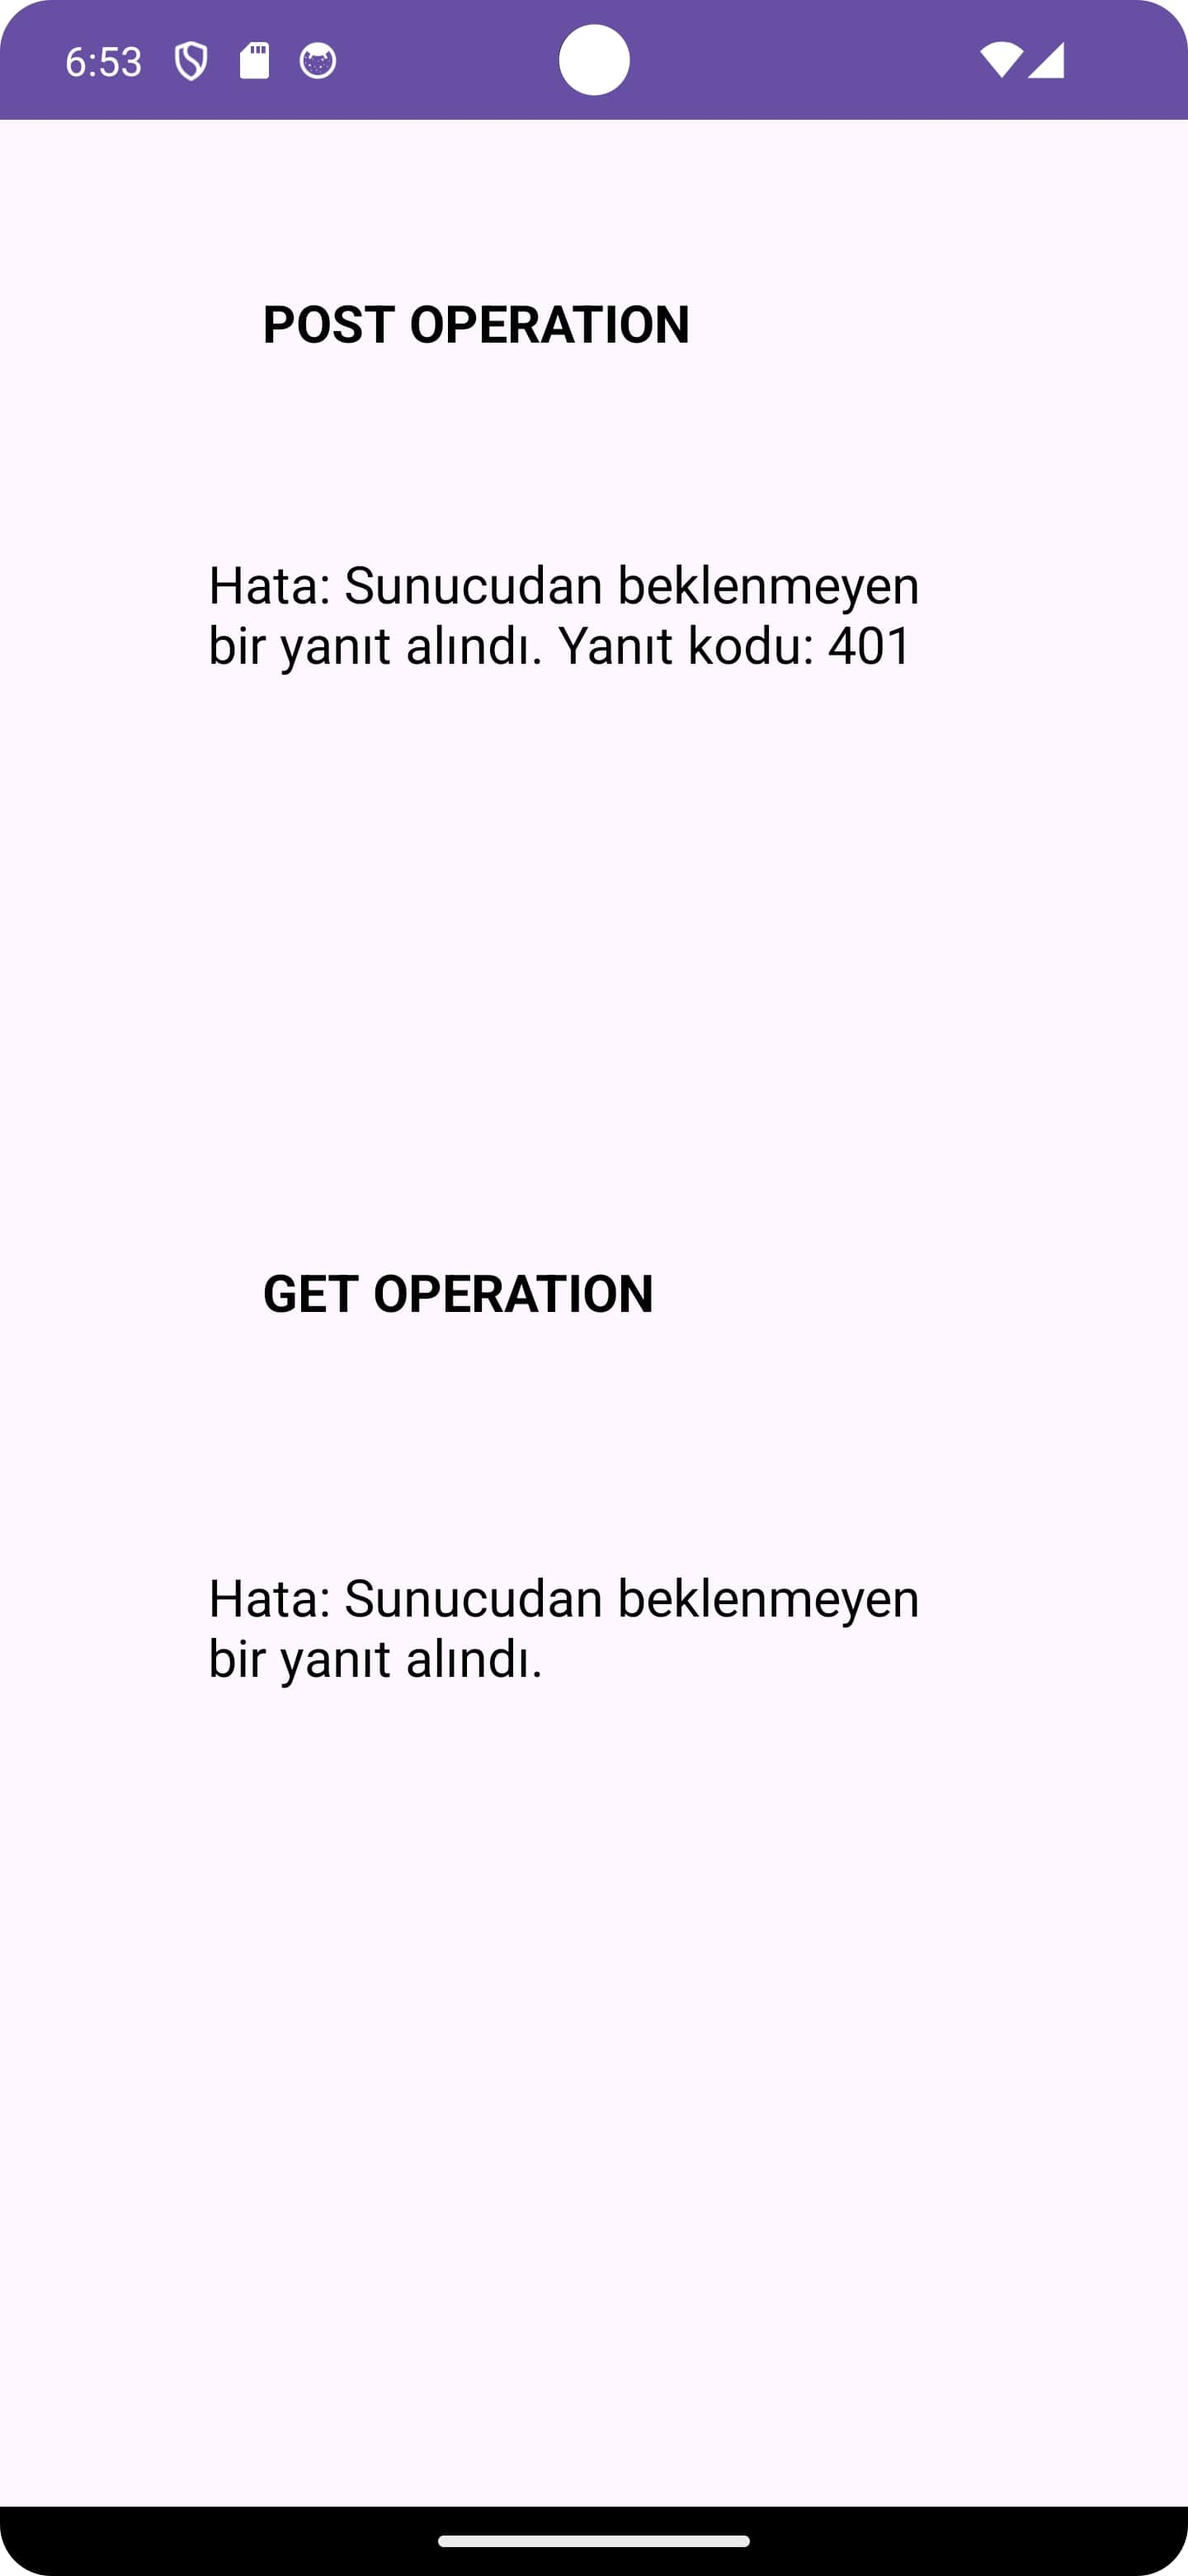
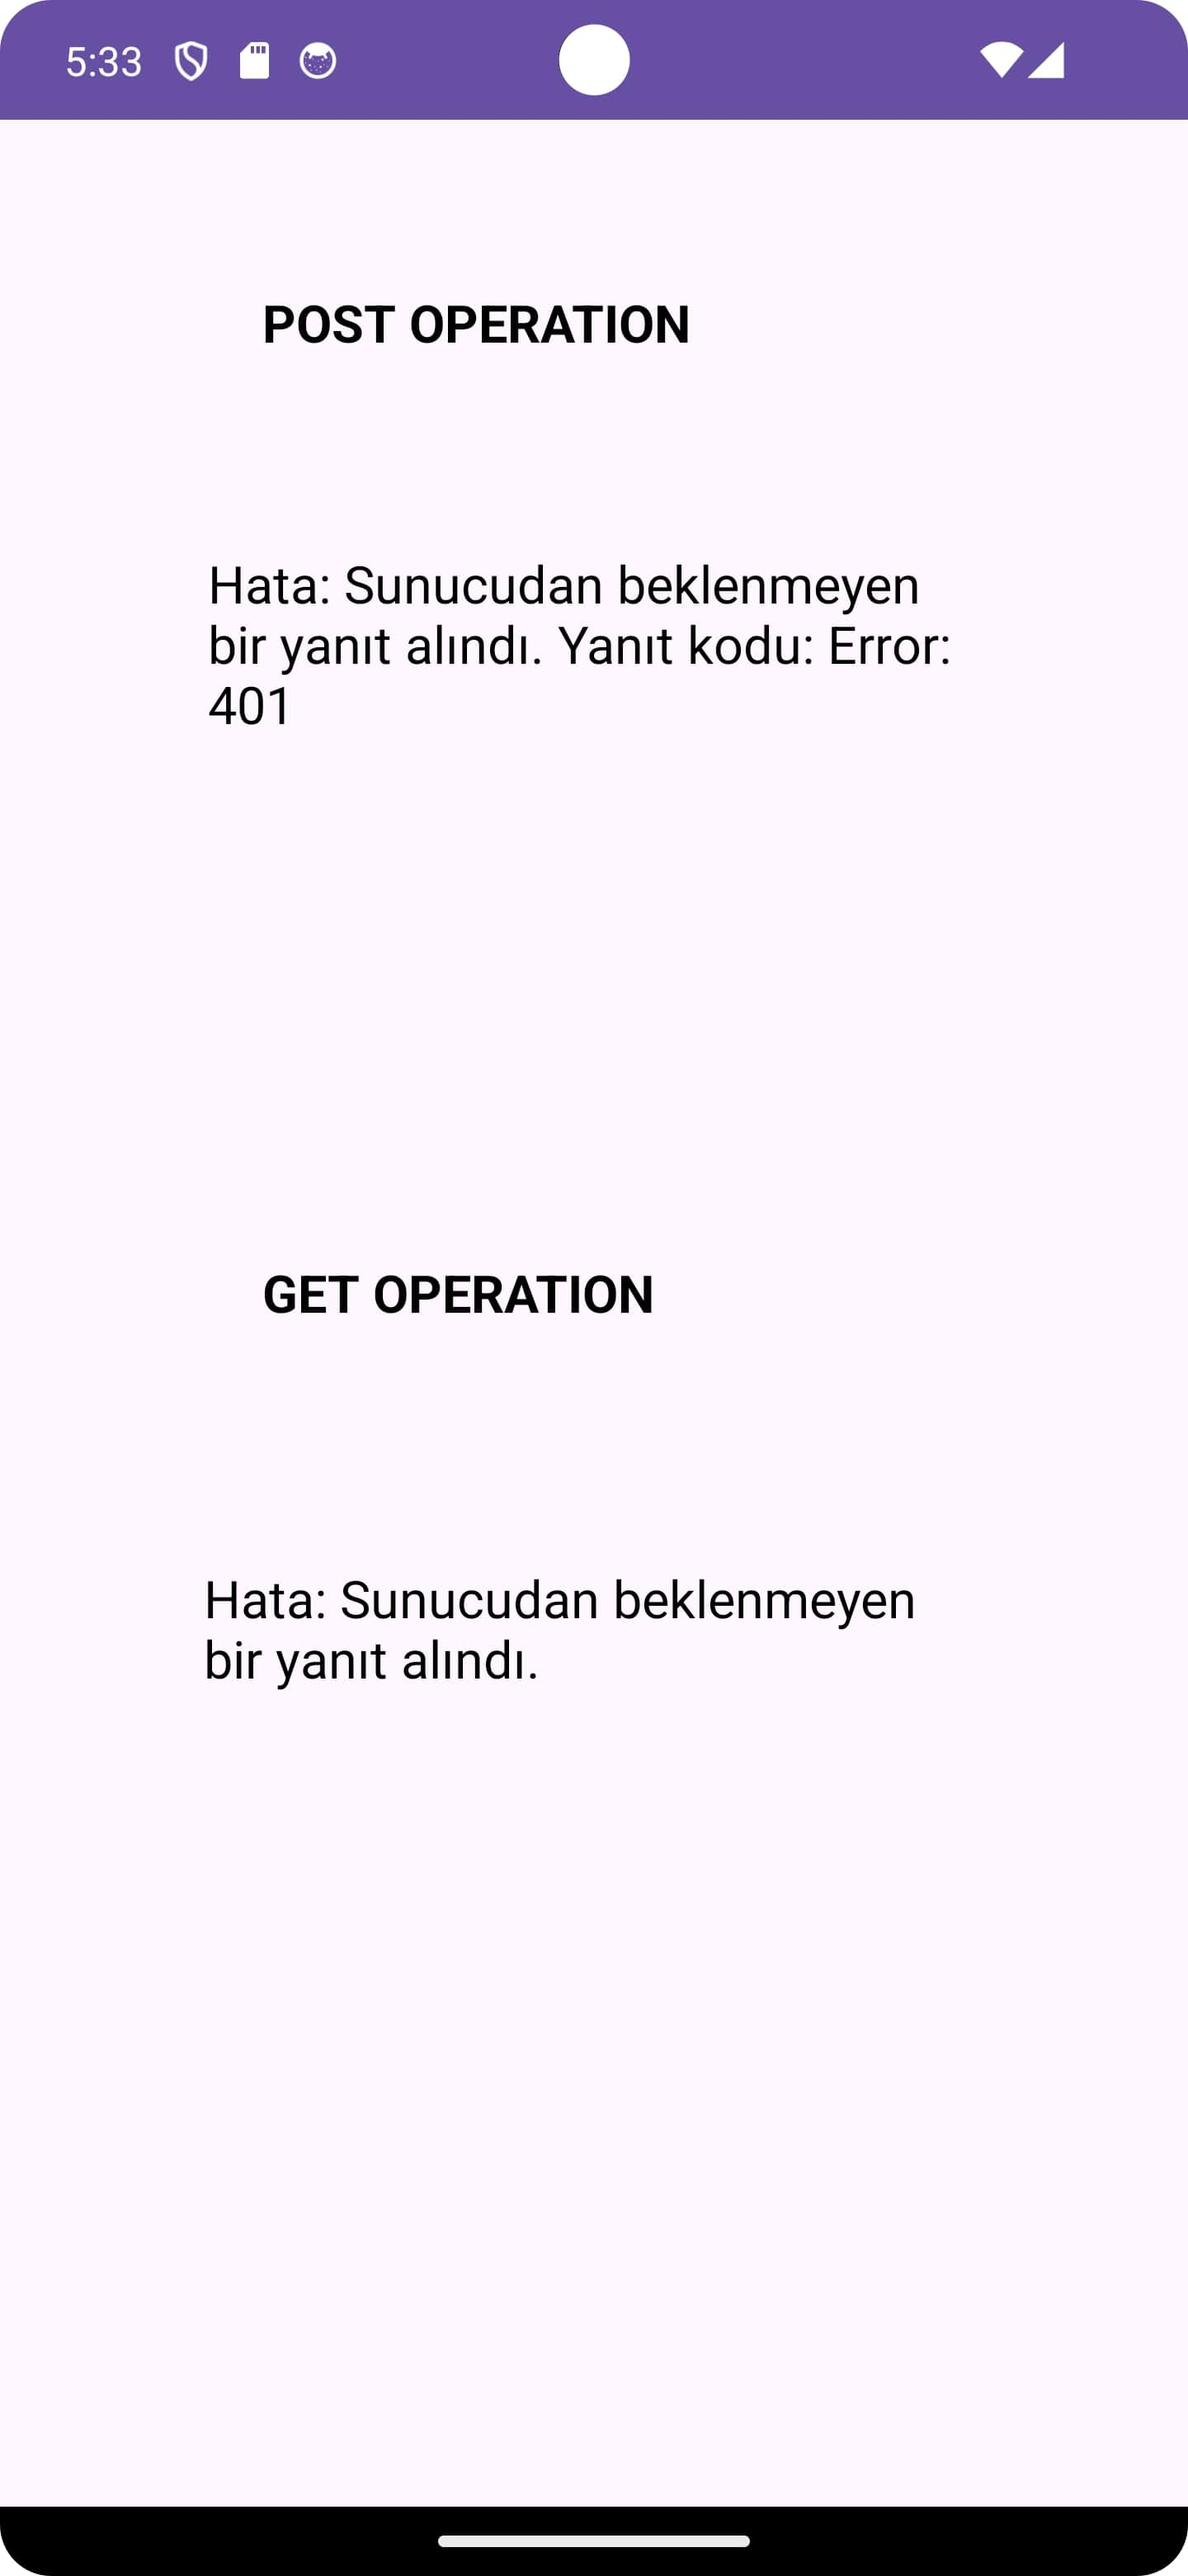
Implemented separation of concerns to apply clean code Converted json format to data class Screenshots has changed

diff --git a/app/src/main/java/com/example/patikagetirbootcampw4/presentation/MainActivity.kt b/app/src/main/java/com/example/patikagetirbootcampw4/presentation/MainActivity.kt
@@ -1,0 +1,67 @@
+package com.example.patikagetirbootcampw4.presentation
+
+import android.annotation.SuppressLint
+import android.os.Bundle
+import androidx.appcompat.app.AppCompatActivity
+import android.os.StrictMode
+import androidx.lifecycle.lifecycleScope
+import com.example.patikagetirbootcampw4.R
+import com.example.patikagetirbootcampw4.databinding.ActivityMainBinding
+import com.example.patikagetirbootcampw4.model.Login
+import com.example.patikagetirbootcampw4.model.User
+import com.example.patikagetirbootcampw4.network.NetworkManager
+import com.example.patikagetirbootcampw4.util.UserUtils
+import kotlinx.coroutines.Dispatchers
+import kotlinx.coroutines.launch
+
+
+class MainActivity : AppCompatActivity() {
+    private lateinit var binding: ActivityMainBinding
+
+    @SuppressLint("SetTextI18n")
+    override fun onCreate(savedInstanceState: Bundle?) {
+        super.onCreate(savedInstanceState)
+        binding = ActivityMainBinding.inflate(layoutInflater)
+        setContentView(binding.root)
+
+        val networkManager = NetworkManager.getInstance()
+        val userUtils = UserUtils()
+
+        lifecycleScope.launch(Dispatchers.IO) {
+            val policy = StrictMode.ThreadPolicy.Builder().permitAll().build()
+            StrictMode.setThreadPolicy(policy)
+
+            val login = Login("fatih1@gmail.com", "Gptmap123")
+            val loginResponse = networkManager.makePostRequest(login)
+
+            if (loginResponse.startsWith("Error:")) {
+                launch(Dispatchers.Main) {
+                    val errorMessage = getString(R.string.error_message)
+                    binding.textViewPost.text = "${errorMessage} $loginResponse"
+                    binding.textViewGet.text = errorMessage.subSequence(0,errorMessage.length-12)
+                }
+            } else {
+                val profileResponse = networkManager.makeGetRequest(loginResponse)
+                val user = userUtils.parseUserJson(profileResponse)
+                displayUserInfo(user)
+                launch(Dispatchers.Main) {
+                    binding.textViewPost.text = loginResponse
+                }
+            }
+        }
+    }
+
+    private fun displayUserInfo(user: User) {
+        val userInfo = "ID: ${user.id}\n" +
+                "Full Name: ${user.fullName}\n" +
+                "Email: ${user.email}\n" +
+                "Phone: ${user.phoneNumber ?: "Not provided"}\n" +
+                "Occupation: ${user.occupation ?: "Not provided"}\n" +
+                "Employer: ${user.employer ?: "Not provided"}\n"+
+                "Country: ${user.country ?: "Not provided"}\n" +
+                "Latitude: ${user.latitude}\n" +
+                "Longitude: ${user.longitude}\n"
+
+        binding.textViewGet.text = userInfo
+    }
+}

diff --git a/app/src/main/java/com/example/patikagetirbootcampw4/network/NetworkManager.kt b/app/src/main/java/com/example/patikagetirbootcampw4/network/NetworkManager.kt
@@ -1,0 +1,55 @@
+package com.example.patikagetirbootcampw4.network
+import com.example.patikagetirbootcampw4.model.Login
+import java.io.BufferedReader
+import java.io.InputStreamReader
+import java.io.OutputStreamWriter
+import java.net.HttpURLConnection
+import java.net.URL
+class NetworkManager {
+    fun makePostRequest(loginData: Login): String {
+        val urlString = "https://espresso-food-delivery-backend-cc3e106e2d34.herokuapp.com/login"
+        val jsonData = loginToJson(loginData)
+
+        try {
+            val url = URL(urlString)
+            val connection = url.openConnection() as HttpURLConnection
+            connection.requestMethod = "POST"
+            connection.doOutput = true
+            connection.setRequestProperty("Content-Type", "application/json; charset=UTF-8")
+
+            OutputStreamWriter(connection.outputStream).use { writer ->
+                writer.write(jsonData)
+            }
+
+            val responseCode = connection.responseCode
+            if (responseCode == HttpURLConnection.HTTP_OK) {
+                BufferedReader(InputStreamReader(connection.inputStream)).use { reader ->
+                    return reader.readText()
+                }
+            } else {
+                return "Error: $responseCode"
+            }
+        } catch (e: Exception) {
+            return "Error: ${e.message}"
+        }
+    }
+
+    private fun loginToJson(login: Login): String {
+        return "{\"email\":\"${login.email}\",\"password\":\"${login.password}\"}"
+    }
+
+    fun makeGetRequest(userId: String): String {
+        val urlString = "https://espresso-food-delivery-backend-cc3e106e2d34.herokuapp.com/profile/$userId"
+        val url = URL(urlString)
+        val connection = url.openConnection() as HttpURLConnection
+        connection.requestMethod = "GET"
+
+        return BufferedReader(InputStreamReader(connection.inputStream)).use { reader ->
+            reader.readText()
+        }
+    }
+
+    companion object {
+        fun getInstance(): NetworkManager = NetworkManager()
+    }
+}

diff --git a/app/src/main/java/com/example/patikagetirbootcampw4/model/User.kt b/app/src/main/java/com/example/patikagetirbootcampw4/model/User.kt
@@ -1,0 +1,15 @@
+package com.example.patikagetirbootcampw4.model
+
+data class User(
+    val id: Int,
+    val userId: String,
+    val fullName: String,
+    val email: String,
+    val password: String,
+    val phoneNumber: String?,
+    val occupation: String?,
+    val employer: String?,
+    val country: String?,
+    val latitude: Double,
+    val longitude: Double
+)

diff --git a/app/src/main/java/com/example/patikagetirbootcampw4/util/UserUtils.kt b/app/src/main/java/com/example/patikagetirbootcampw4/util/UserUtils.kt
@@ -1,0 +1,10 @@
+package com.example.patikagetirbootcampw4.util
+
+import com.example.patikagetirbootcampw4.model.User
+import com.google.gson.Gson
+
+class UserUtils {
+    fun parseUserJson(jsonData: String): User {
+        return Gson().fromJson(jsonData, User::class.java)
+    }
+}

diff --git a/app/src/main/java/com/example/patikagetirbootcampw4/model/Login.kt b/app/src/main/java/com/example/patikagetirbootcampw4/model/Login.kt
@@ -1,4 +1,4 @@
-package com.example.patikagetirbootcampw4
+package com.example.patikagetirbootcampw4.model
 
 
 data class Login(

diff --git a/README.md b/README.md
@@ -14,6 +14,7 @@ This Android application is developed as part of the Patika.dev Android Bootcamp
 - Used Kotlin Coroutines for asynchronous network requests to avoid blocking the main UI thread.
 - Designed a simple user interface with two TextViews to display the response of login and profile requests.
 - Utilized Harun Hoca's demonstration from last week's class as a reference for UI design, featuring a clean and minimalist layout.
+- Implemented separation of concerns
 
 ## How to Run:
 1. Clone or download the project from the GitHub repository.
